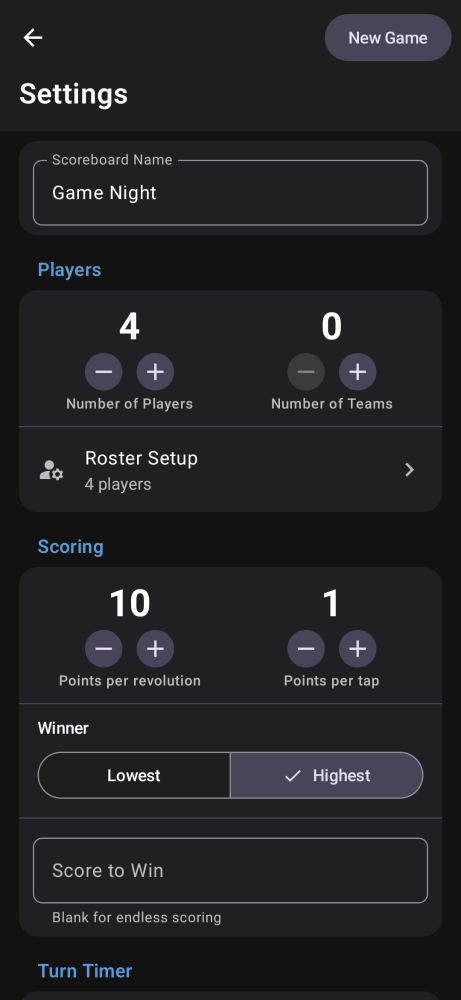
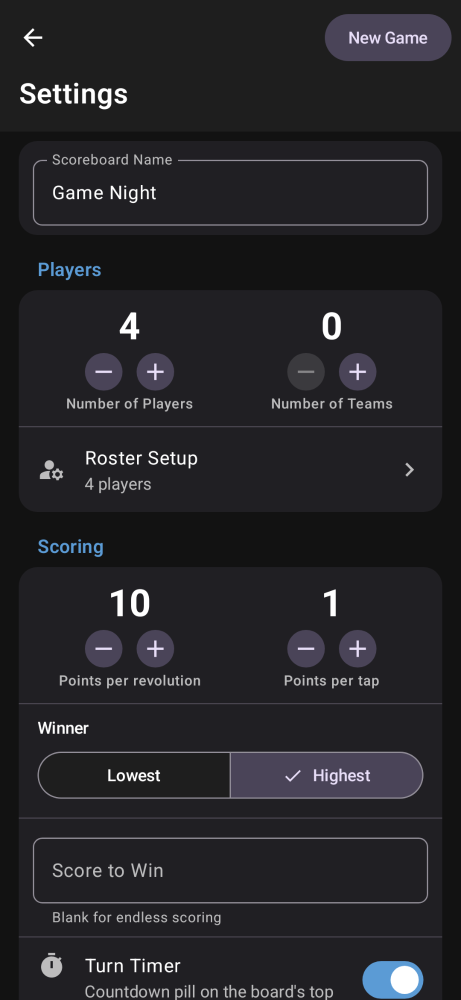
Timer rail drains with countdown; armed duration survives reset; showTimer toggle

Changed region(s): [[0.1822, 0.93, 0.7289, 1.0], [0.7896, 0.961, 0.9414, 1.0], [0.0911, 0.93, 0.1518, 0.992]]

diff --git a/app/src/main/java/com/scoreorbit/android/viewmodel/ScoreViewModel.kt b/app/src/main/java/com/scoreorbit/android/viewmodel/ScoreViewModel.kt
@@ -57,6 +57,10 @@ class ScoreViewModel(application: Application) : AndroidViewModel(application) {
     private val _timerMs = mutableStateOf(120_000L)
     val timerMs: State<Long> = _timerMs
 
+    /** The armed duration: what the countdown drains from and Reset restores. */
+    private val _timerSetMs = mutableStateOf(120_000L)
+    val timerSetMs: State<Long> = _timerSetMs
+
     private val _timerRunning = mutableStateOf(false)
     val timerRunning: State<Boolean> = _timerRunning
 
@@ -79,6 +83,7 @@ class ScoreViewModel(application: Application) : AndroidViewModel(application) {
             undoStack.addAll(saved.second)
             redoStack.addAll(saved.third)
             _timerMs.value = saved.first.timerStartSec * 1000L
+            _timerSetMs.value = saved.first.timerStartSec * 1000L
         } else {
             startNewGame(
                 playerCount = 2,
@@ -89,6 +94,7 @@ class ScoreViewModel(application: Application) : AndroidViewModel(application) {
                 winMetric = WinMetric.HIGHEST,
             )
             _timerMs.value = (_currentGame.value?.timerStartSec ?: 120) * 1000L
+            _timerSetMs.value = _timerMs.value
         }
     }
 
@@ -149,6 +155,7 @@ class ScoreViewModel(application: Application) : AndroidViewModel(application) {
         timerEndAt = 0L
         _timerRunning.value = false
         _timerMs.value = (_currentGame.value?.timerStartSec ?: 120) * 1000L
+        _timerSetMs.value = _timerMs.value
         _screen.value = AppScreen.Board
         persist()
     }
@@ -247,23 +254,33 @@ class ScoreViewModel(application: Application) : AndroidViewModel(application) {
         persist()
     }
 
-    // -- turn timer ----------------------------------------------------------
-    // Live state (remaining/running) is session state kept here, driven off
-    // a wall-clock deadline so it stays accurate across recompositions and
-    // process doze. Only the default duration travels with the game.
+    // -- turn timer control ---------------------------------------------------
+    // Driven off a wall-clock deadline so it stays accurate across
+    // recompositions and process doze. `timerSetMs` is the duration the
+    // user armed (settings default until they change it on the board):
+    // the countdown drains from it, and Reset returns to it. Only the
+    // default travels with the game.
 
     fun timerAdjust(deltaSec: Int) {
         val game = _currentGame.value ?: return
-        val newSec = (_timerMs.value / 1000L + deltaSec)
-            .coerceIn(15L, (game.timerStartSec.coerceAtLeast(15) * 4).toLong().coerceAtLeast(60L))
-        _timerMs.value = newSec * 1000L
-        // While running, adjusting shifts the deadline rather than pausing.
-        if (_timerRunning.value) timerEndAt = System.currentTimeMillis() + newSec * 1000L
+        if (_timerRunning.value) {
+            // Running: shifts the deadline only; the armed duration is
+            // untouched, so Reset still restores what the user chose.
+            val newSec = (_timerMs.value / 1000L + deltaSec).coerceAtLeast(15L)
+            _timerMs.value = newSec * 1000L
+            timerEndAt = System.currentTimeMillis() + newSec * 1000L
+        } else {
+            // Stopped: re-arming. This becomes the duration Start uses and
+            // the one Reset eventually returns to.
+            val newSec = (_timerSetMs.value / 1000L + deltaSec)
+                .coerceIn(15L, 3600L)
+            _timerSetMs.value = newSec * 1000L
+            _timerMs.value = newSec * 1000L
+        }
         _timerDoneTick.value = 0
     }
 
     fun timerStartPause() {
-        val game = _currentGame.value ?: return
         if (_timerRunning.value) {
             _timerRunning.value = false
             timerJob?.cancel()
@@ -271,9 +288,9 @@ class ScoreViewModel(application: Application) : AndroidViewModel(application) {
             timerEndAt = 0L
             _timerDoneTick.value = 0
         } else {
-            // Off the zero-done state, Start restarts from the shown duration;
-            // Reset does the same for a stopped timer.
-            if (_timerMs.value <= 0L) _timerMs.value = game.timerStartSec * 1000L
+            // Off the zero-done state, Start restarts from the armed
+            // duration; Reset does the same for a stopped timer.
+            if (_timerMs.value <= 0L) _timerMs.value = _timerSetMs.value
             timerEndAt = System.currentTimeMillis() + _timerMs.value
             _timerRunning.value = true
             timerJob = viewModelScope.launch {
@@ -293,19 +310,33 @@ class ScoreViewModel(application: Application) : AndroidViewModel(application) {
     }
 
     fun timerReset() {
-        val game = _currentGame.value ?: return
         timerJob?.cancel()
         timerJob = null
         timerEndAt = 0L
         _timerRunning.value = false
-        _timerMs.value = game.timerStartSec * 1000L
+        _timerMs.value = _timerSetMs.value
         _timerDoneTick.value = 0
     }
 
-    /** Settings: default duration the timer starts from (and resets to). */
+    /** Settings: default duration the timer arms itself to (in seconds). */
     fun setTimerStartSec(sec: Int) {
         _currentGame.value = _currentGame.value?.copy(timerStartSec = sec.coerceIn(15, 3600))
-        timerReset()
+        timerJob?.cancel()
+        timerJob = null
+        timerEndAt = 0L
+        _timerRunning.value = false
+        _timerSetMs.value = sec * 1000L
+        _timerMs.value = sec * 1000L
+        _timerDoneTick.value = 0
+        persist()
+    }
+
+    /** Settings: whether the timer pill is offered on the board's top bar. */
+    fun setShowTimer(show: Boolean) {
+        _currentGame.value = _currentGame.value?.copy(showTimer = show)
+        if (!show) timerReset()
+        _timerSetMs.value = (_currentGame.value?.timerStartSec ?: 120) * 1000L
+        _timerMs.value = _timerSetMs.value
         persist()
     }
 
@@ -551,6 +582,7 @@ class ScoreViewModel(application: Application) : AndroidViewModel(application) {
         .put("showRankBadges", game.showRankBadges)
         .put("hapticsEnabled", game.hapticsEnabled)
         .put("hapticStrength", game.hapticStrength)
+        .put("showTimer", game.showTimer)
         .put("timerStartSec", game.timerStartSec)
         .put("players", JSONArray(game.players.map { p ->
             JSONObject()
@@ -608,6 +640,7 @@ class ScoreViewModel(application: Application) : AndroidViewModel(application) {
             showRankBadges = o.optBoolean("showRankBadges", true),
             hapticsEnabled = o.optBoolean("hapticsEnabled", false),
             hapticStrength = o.optInt("hapticStrength", 65),
+            showTimer = o.optBoolean("showTimer", true),
             timerStartSec = o.optInt("timerStartSec", 120).coerceIn(15, 3600),
             entries = entries.filter { it.playerId in ids },
         )

diff --git a/app/src/main/java/com/scoreorbit/android/ui/ScoreboardScreen.kt b/app/src/main/java/com/scoreorbit/android/ui/ScoreboardScreen.kt
@@ -1,5 +1,6 @@
 package com.scoreorbit.android.ui
 
+import androidx.compose.animation.animateColorAsState
 import androidx.compose.animation.core.Spring
 import androidx.compose.animation.core.animate
 import androidx.compose.animation.core.animateIntAsState
@@ -915,9 +916,10 @@ fun ScoreboardScreen(game: Game, viewModel: ScoreViewModel) {
     Scaffold(
         containerColor = MaterialTheme.colorScheme.surface,
         topBar = {
-            if (timerExpanded) {
+            if (timerExpanded && game.showTimer) {
                 TurnTimerBar(
                     timerMs = viewModel.timerMs.value,
+                    timerSetMs = viewModel.timerSetMs.value,
                     timerRunning = viewModel.timerRunning.value,
                     onAdjust = viewModel::timerAdjust,
                     onStartPause = viewModel::timerStartPause,
@@ -954,11 +956,13 @@ fun ScoreboardScreen(game: Game, viewModel: ScoreViewModel) {
                         }
                     },
                     actions = {
-                        TurnTimerChip(
-                            timerMs = viewModel.timerMs.value,
-                            timerRunning = viewModel.timerRunning.value,
-                            onExpand = { timerExpanded = true },
-                        )
+                        if (game.showTimer) {
+                            TurnTimerChip(
+                                timerMs = viewModel.timerMs.value,
+                                timerRunning = viewModel.timerRunning.value,
+                                onExpand = { timerExpanded = true },
+                            )
+                        }
                         IconButton(onClick = { viewModel.go(AppScreen.Settings) }) {
                             Icon(
                                 Icons.Default.Settings,
@@ -2298,10 +2302,23 @@ private fun TurnTimerChip(
     timerRunning: Boolean,
     onExpand: () -> Unit,
 ) {
-    Surface(
-        shape = RoundedCornerShape(50),
-        color = if (timerRunning) MaterialTheme.colorScheme.primaryContainer
+    // Expressive tonal treatment: the pill blooms to the primary container
+    // while running, back to neutral when paused — animated, not snapped.
+    val chipColor by animateColorAsState(
+        targetValue = if (timerRunning) MaterialTheme.colorScheme.primaryContainer
         else MaterialTheme.colorScheme.surfaceVariant,
+        animationSpec = spring(dampingRatio = Spring.DampingRatioMediumBouncy, stiffness = 380f),
+        label = "timerChip",
+    )
+    val contentColor by animateColorAsState(
+        targetValue = if (timerRunning) MaterialTheme.colorScheme.onPrimaryContainer
+        else MaterialTheme.colorScheme.onSurfaceVariant,
+        animationSpec = tween(250),
+        label = "timerChipContent",
+    )
+    Surface(
+        shape = MaterialTheme.shapes.extraLarge,
+        color = chipColor,
         modifier = Modifier
             .height(30.dp)
             .clickable(onClick = onExpand),
@@ -2309,22 +2326,20 @@ private fun TurnTimerChip(
         Row(
             verticalAlignment = Alignment.CenterVertically,
             horizontalArrangement = Arrangement.spacedBy(5.dp),
-            modifier = Modifier.padding(horizontal = 10.dp),
+            modifier = Modifier.padding(horizontal = 12.dp),
         ) {
             Icon(
                 Icons.Default.Timer,
                 contentDescription = "Turn timer",
                 modifier = Modifier.size(15.dp),
-                tint = if (timerRunning) MaterialTheme.colorScheme.onPrimaryContainer
-                else MaterialTheme.colorScheme.onSurfaceVariant,
+                tint = contentColor,
             )
             Text(
                 formatTimer(timerMs),
                 fontSize = 13.sp,
                 fontWeight = FontWeight.Bold,
                 style = TextStyle(fontFeatureSettings = "tnum"),
-                color = if (timerRunning) MaterialTheme.colorScheme.onPrimaryContainer
-                else MaterialTheme.colorScheme.onSurfaceVariant,
+                color = contentColor,
             )
         }
     }
@@ -2337,6 +2352,7 @@ private fun TurnTimerChip(
 @Composable
 internal fun TurnTimerBar(
     timerMs: Long,
+    timerSetMs: Long,
     timerRunning: Boolean,
     onAdjust: (Int) -> Unit,
     onStartPause: () -> Unit,
@@ -2412,17 +2428,27 @@ internal fun TurnTimerBar(
                     )
                 }
             }
-            // While running the bar keeps a colored rail so the expanded
-            // state reads as live even in the corner of your eye.
+            // While running the bar keeps a progress rail that literally
+            // counts down: it drains from full to empty across the armed
+            // duration, capped on the right if ±15s pushed past the set time.
+            val fraction = if (timerSetMs > 0L)
+                (timerMs.toFloat() / timerSetMs.toFloat()).coerceIn(0f, 1f) else 0f
             Box(
                 Modifier
                     .fillMaxWidth()
                     .height(3.dp)
-                    .background(
-                        color = if (timerRunning) MaterialTheme.colorScheme.primary
-                        else MaterialTheme.colorScheme.surfaceVariant,
-                    ),
-            )
+                    .background(MaterialTheme.colorScheme.surfaceVariant),
+            ) {
+                Box(
+                    Modifier
+                        .fillMaxWidth(fraction)
+                        .height(3.dp)
+                        .background(
+                            color = MaterialTheme.colorScheme.primary,
+                            shape = RoundedCornerShape(topEnd = 2.dp, bottomEnd = 2.dp),
+                        ),
+                )
+            }
         }
     }
 }

diff --git a/app/src/main/java/com/scoreorbit/android/ui/SettingsScreens.kt b/app/src/main/java/com/scoreorbit/android/ui/SettingsScreens.kt
@@ -51,6 +51,7 @@ import androidx.compose.material.icons.filled.PlusOne
 import androidx.compose.material.icons.filled.Refresh
 import androidx.compose.material.icons.filled.Remove
 import androidx.compose.material.icons.filled.TouchApp
+import androidx.compose.material.icons.filled.Timer
 import androidx.compose.material.icons.filled.Vibration
 import androidx.compose.material.icons.filled.Visibility
 import androidx.compose.material3.AlertDialog
@@ -373,37 +374,63 @@ fun SettingsScreen(game: Game?, viewModel: ScoreViewModel) {
                                 if (!focus.isFocused) commitTarget()
                             },
                     )
-                }
-
-                SettingsGroup(label = "Turn Timer") {
-                    Column(modifier = Modifier.padding(horizontal = 16.dp, vertical = 12.dp)) {
-                        Text(
-                            "Default duration",
-                            style = MaterialTheme.typography.titleSmall,
-                            color = MaterialTheme.colorScheme.onSurface,
-                        )
-                        Spacer(modifier = Modifier.height(8.dp))
-                        val timerPresets = listOf(60, 120, 180, 300, 600, 900)
-                        SingleChoiceSegmentedButtonRow(modifier = Modifier.fillMaxWidth()) {
-                            timerPresets.forEachIndexed { i, sec ->
-                                SegmentedButton(
-                                    selected = game.timerStartSec == sec,
-                                    onClick = { viewModel.setTimerStartSec(sec) },
-                                    shape = SegmentedButtonDefaults.itemShape(
-                                        index = i,
-                                        count = timerPresets.size,
-                                    ),
-                                ) {
-                                    Text(if (sec % 60 == 0) "${sec / 60}m" else "${sec}s")
+                    HorizontalDivider(color = MaterialTheme.colorScheme.outlineVariant)
+                    ListItem(
+                        headlineContent = { Text("Turn Timer") },
+                        supportingContent = { Text("Countdown pill on the board's top bar") },
+                        leadingContent = {
+                            Icon(
+                                Icons.Default.Timer,
+                                contentDescription = null,
+                                tint = MaterialTheme.colorScheme.onSurfaceVariant,
+                            )
+                        },
+                        trailingContent = {
+                            Switch(
+                                checked = game.showTimer,
+                                onCheckedChange = { viewModel.setShowTimer(it) },
+                            )
+                        },
+                        colors = ListItemDefaults.colors(containerColor = Color.Transparent),
+                    )
+                    AnimatedVisibility(
+                        visible = game.showTimer,
+                        enter = fadeIn() + expandVertically(),
+                        exit = fadeOut() + shrinkVertically(),
+                    ) {
+                        // Duration presets, haptics-style: the segments pick
+                        // what the board's timer arms to (and what Reset
+                        // restores). The board itself nudges the countdown
+                        // by 15 seconds once a game is underway.
+                        val timerPresets = listOf(60, 120, 180, 300)
+                        Column(modifier = Modifier.padding(horizontal = 16.dp, vertical = 12.dp)) {
+                            Text(
+                                "Default Duration",
+                                style = MaterialTheme.typography.titleSmall,
+                                color = MaterialTheme.colorScheme.onSurface,
+                            )
+                            Spacer(modifier = Modifier.height(8.dp))
+                            SingleChoiceSegmentedButtonRow(modifier = Modifier.fillMaxWidth()) {
+                                timerPresets.forEachIndexed { i, sec ->
+                                    SegmentedButton(
+                                        selected = game.timerStartSec == sec,
+                                        onClick = { viewModel.setTimerStartSec(sec) },
+                                        shape = SegmentedButtonDefaults.itemShape(
+                                            index = i,
+                                            count = timerPresets.size,
+                                        ),
+                                    ) {
+                                        Text("${sec / 60}m")
+                                    }
                                 }
                             }
+                            Spacer(modifier = Modifier.height(6.dp))
+                            Text(
+                                "Tap the timer on the board to expand it — 15-second steps, start, pause and reset.",
+                                style = MaterialTheme.typography.bodySmall,
+                                color = MaterialTheme.colorScheme.onSurfaceVariant,
+                            )
                         }
-                        Spacer(modifier = Modifier.height(6.dp))
-                        Text(
-                            "Tap the timer on the board to expand it — the steps there adjust the countdown by 15 seconds, with start, pause and reset.",
-                            style = MaterialTheme.typography.bodySmall,
-                            color = MaterialTheme.colorScheme.onSurfaceVariant,
-                        )
                     }
                 }
 

diff --git a/app/src/main/java/com/scoreorbit/android/model/Game.kt b/app/src/main/java/com/scoreorbit/android/model/Game.kt
@@ -51,6 +51,8 @@ data class Game(
     val showPlayerNames: Boolean = true,
     val hapticsEnabled: Boolean = false,
     val hapticStrength: Int = 65,
+    /** Whether the turn timer pill is offered on the board's top bar. */
+    val showTimer: Boolean = true,
     /** Default turn-timer duration the board starts from, in seconds. */
     val timerStartSec: Int = 120,
     val entries: List<ScoreEntry> = emptyList(),

diff --git a/app/src/test/java/com/scoreorbit/android/ScreenshotsTest.kt b/app/src/test/java/com/scoreorbit/android/ScreenshotsTest.kt
@@ -123,6 +123,7 @@ class ScreenshotsTest {
             ScoreOrbitTheme(dynamicColor = false) {
                 TurnTimerBar(
                     timerMs = 75_000L,
+                    timerSetMs = 120_000L,
                     timerRunning = true,
                     onAdjust = {},
                     onStartPause = {},
